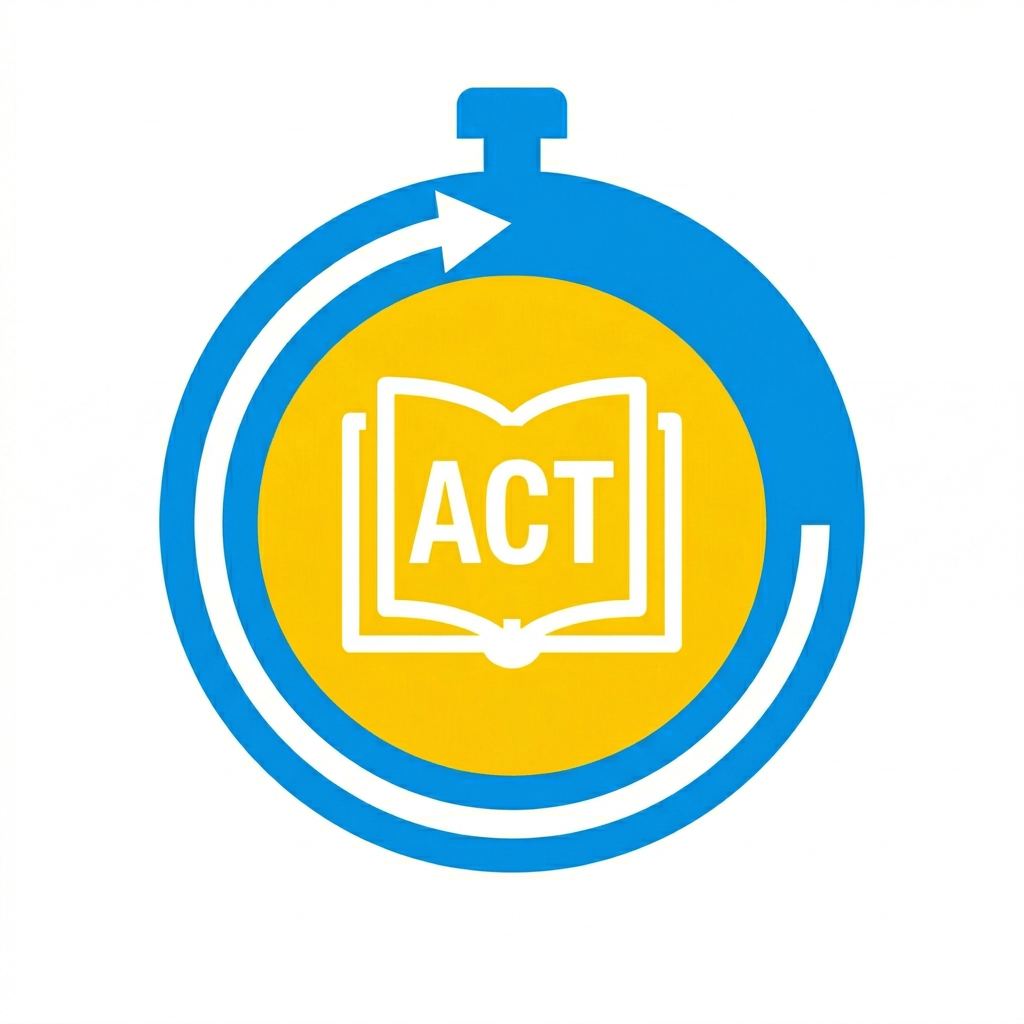
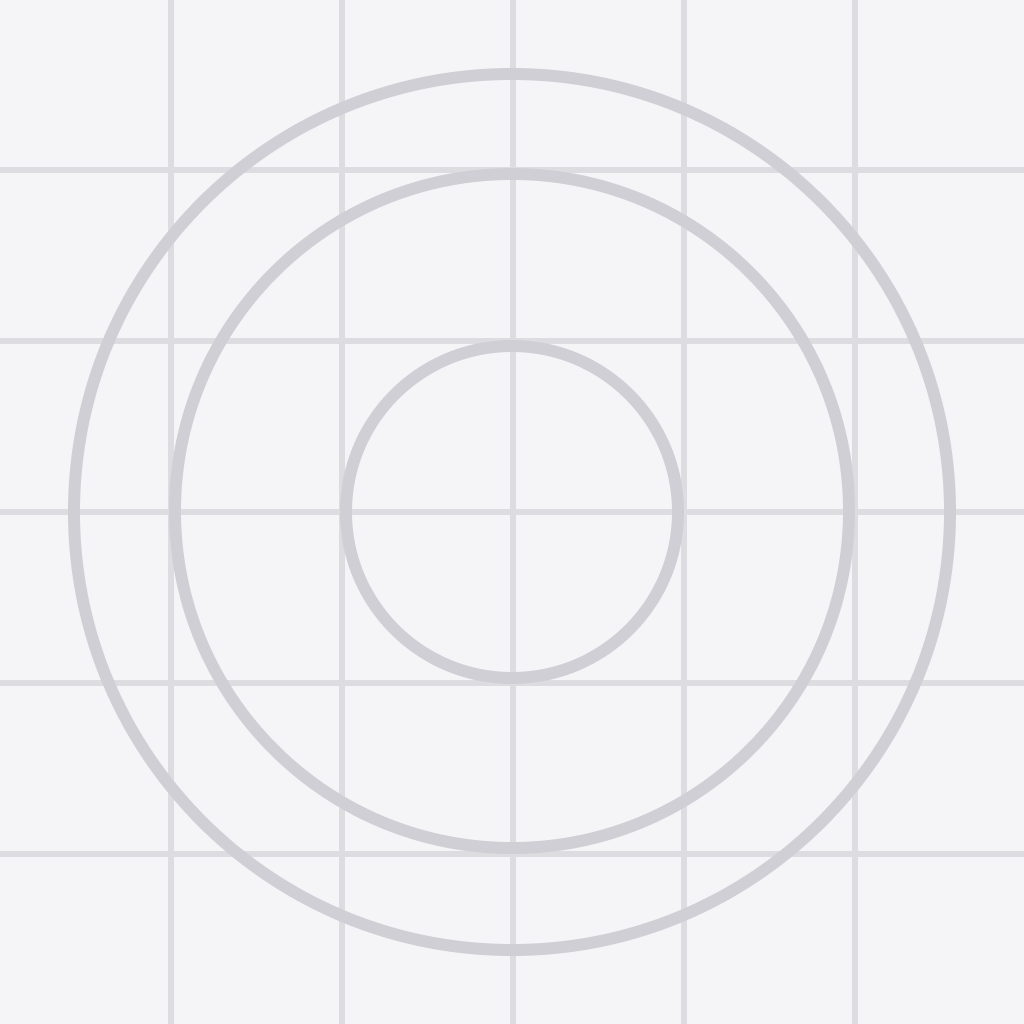
break down libs

diff --git a/apps/main-app/app/_layout.tsx b/apps/main-app/app/_layout.tsx
@@ -5,7 +5,9 @@ import { PostHogProvider } from "posthog-react-native";
 import { useEffect } from "react";
 import "react-native-reanimated";
 
-import { GluestackUIProvider, useThemeStore } from "@workspace/shared";
+import { GluestackUIProvider } from "@workspace/components";
+import { useThemeStore } from "@workspace/stores";
+import "@workspace/i18n";
 import "@/global.css";
 import * as Sentry from "@sentry/react-native";
 

diff --git a/apps/main-app/app/index.tsx b/apps/main-app/app/index.tsx
@@ -1,5 +1,5 @@
 import { View, Text, TouchableOpacity, StyleSheet, SafeAreaView } from "react-native";
-import { useThemeStore } from "@workspace/shared";
+import { useThemeStore } from "@workspace/stores";
 
 export default function HomeScreen() {
   const { mode, cycleMode } = useThemeStore();

diff --git a/libs/components/src/index.ts b/libs/components/src/index.ts
@@ -1,0 +1,1 @@
+export * from './ui/gluestack-ui-provider';

diff --git a/libs/stores/src/index.ts b/libs/stores/src/index.ts
@@ -1,0 +1,1 @@
+export * from './theme';

diff --git a/libs/utils/src/index.ts b/libs/utils/src/index.ts
@@ -1,0 +1,1 @@
+export * from './initAds';